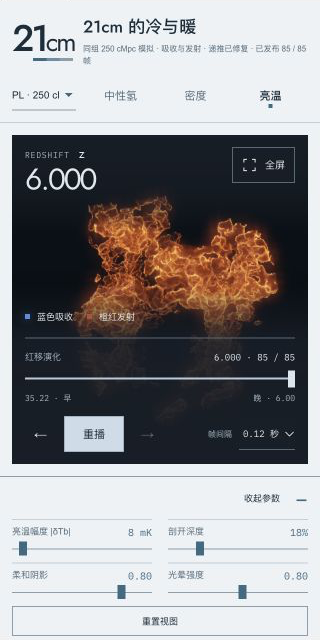
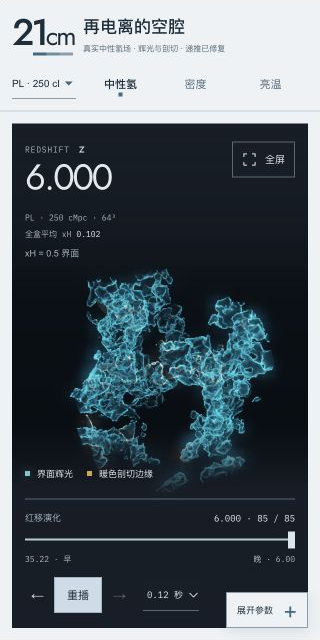
Replace the folded parameter dock with a floating corner button

diff --git a/viewer-lab/cavity.css b/viewer-lab/cavity.css
@@ -30,7 +30,7 @@
   --content-width: 1660px;
   font-family: var(--font-body); color: var(--ink); background: var(--background);
 }
-.cavity-page { --sample-dock: 39px; min-width: 320px; min-height: 100dvh; background: var(--background); -webkit-font-smoothing: antialiased; }
+.cavity-page { --sample-dock: 0px; min-width: 320px; min-height: 100dvh; background: var(--background); -webkit-font-smoothing: antialiased; }
 ::selection { color: var(--surface); background: var(--accent); }
 .cavity-page :is(button, a, input, select, canvas, summary):focus-visible { outline: 2px solid var(--accent); outline-offset: 4px; }
 .cavity-page button { border-radius: 0; transition: color 150ms ease, background 150ms ease, border-color 150ms ease; }
@@ -248,6 +248,29 @@
   .sample-gap p { font-size: 10px; line-height: 1.6; }
   .sample-gap > div { margin-top: 0; gap: 8px; }
   .sample-gap button { padding: 6px 9px; }
+}
+
+/* A folded dock reserves no space; only its corner button remains. */
+.sample-controls.is-collapsed {
+  inset: auto max(16px, env(safe-area-inset-right)) max(12px, env(safe-area-inset-bottom)) auto;
+  display: block; min-height: 0; max-height: none; padding: 0; border: 0; background: transparent; overflow: visible;
+}
+.sample-controls.is-collapsed .sample-toggle {
+  min-width: 82px; min-height: 36px; gap: 8px; padding: 5px 10px;
+  border: 1px solid var(--line-strong); background: var(--background); box-shadow: 0 3px 12px #111e2b1a;
+}
+.sample-controls.is-collapsed .sample-toggle:hover { background: var(--surface); border-color: var(--accent); }
+@media (min-width:601px) {
+  .controls-collapsed .sample-stage-bottom { padding-right: calc(var(--stage-pad) + 94px); }
+}
+@media (max-width:600px) {
+  .sample-controls.is-collapsed { right: max(12px, env(safe-area-inset-right)); }
+  .controls-collapsed .sample-timeline { grid-template-columns: minmax(104px, 1fr) 56px 84px; }
+  .controls-collapsed .redshift-control { grid-column: 1/-1; }
+  .controls-collapsed .timeline-transport { gap: 2px; }
+  .controls-collapsed .timeline-transport button { min-width: 24px; padding: 5px; }
+  .controls-collapsed .timeline-transport #sample-play { min-width: 48px; }
+  .controls-collapsed .playback-speed { grid-column: 2; display: block; font-size: 0; }
 }
 
 html.is-viewer-fullscreen { overflow: hidden; }

diff --git a/viewer-lab/cavity.js b/viewer-lab/cavity.js
@@ -25,17 +25,24 @@ const field=()=>FIELDS[fieldKey];
 const modelRepaired=()=>!!manifests?.[modelKey]?.thermalEvolutionRepair;
 const currentThreshold=(epoch,snapshot=frames[fieldKey]?.[frameIndex])=>epochThreshold(fieldKey,epoch,modelKey,modelRepaired()?snapshot:null);
 const number=value=>Number(value.toFixed(Math.abs(value)<1?3:2)).toString();
-for(const [selector,variable]of [['.sample-controls','--sample-dock'],['.sample-header','--sample-header']])new ResizeObserver(entries=>document.body.style.setProperty(variable,`${entries[0].target.getBoundingClientRect().height}px`)).observe(document.querySelector(selector));
+function updateDockHeight(){
+  const dock=$('sample-controls');
+  document.body.style.setProperty('--sample-dock',`${dock.classList.contains('is-collapsed')?0:dock.getBoundingClientRect().height}px`);
+}
+new ResizeObserver(updateDockHeight).observe($('sample-controls'));
+new ResizeObserver(entries=>document.body.style.setProperty('--sample-header',`${entries[0].target.getBoundingClientRect().height}px`)).observe(document.querySelector('.sample-header'));
 
 const controlsPreference='21cm:sample:controls-collapsed';
 function setControlsCollapsed(collapsed){
   $('sample-controls').classList.toggle('is-collapsed',collapsed);
+  document.body.classList.toggle('controls-collapsed',collapsed);
   $('sample-panel').hidden=collapsed;
   $('sample-parameters').hidden=collapsed;
   $('sample-toggle').setAttribute('aria-expanded',String(!collapsed));
   $('sample-toggle').setAttribute('aria-label',collapsed?'展开参数区':'收起参数区');
   $('sample-toggle-label').textContent=collapsed?'展开参数':'收起参数';
   $('sample-toggle-mark').textContent=collapsed?'+':'−';
+  updateDockHeight();
   try{localStorage.setItem(controlsPreference,String(collapsed));}catch{}
 }
 let controlsCollapsed=true;

diff --git a/viewer-lab/cavity.html b/viewer-lab/cavity.html
@@ -4,9 +4,9 @@
   <meta charset="utf-8"><meta name="viewport" content="width=device-width,initial-scale=1">
   <meta name="color-scheme" content="light"><title>21cm · 三维 Viewer</title>
   <link rel="preload" href="./assets/fonts/jost-latin-variable.woff2" as="font" type="font/woff2" crossorigin>
-  <link rel="stylesheet" href="./style.css"><link rel="stylesheet" href="./cavity.css?v=minimal-dock-20261018">
+  <link rel="stylesheet" href="./style.css"><link rel="stylesheet" href="./cavity.css?v=floating-toggle-20261018">
 </head>
-<body class="cavity-page">
+<body class="cavity-page controls-collapsed">
   <header class="sample-header">
     <a class="sample-brand" href="./">21<span>cm</span><i aria-hidden="true"></i></a>
     <div class="sample-heading"><h1 id="sample-title">再电离的空腔</h1><p id="sample-subtitle">真实中性氢场 · 辉光与剖切</p></div>
@@ -54,6 +54,6 @@
     </div>
     <button class="sample-toggle" id="sample-toggle" aria-expanded="false" aria-controls="sample-panel" aria-label="展开参数区"><span id="sample-toggle-label">展开参数</span><span id="sample-toggle-mark" aria-hidden="true">+</span></button>
   </footer>
-  <script type="module" src="./cavity.js?v=compact-controls-20261018"></script>
+  <script type="module" src="./cavity.js?v=floating-toggle-20261018"></script>
 </body>
 </html>

diff --git a/viewer-lab/README.md b/viewer-lab/README.md
@@ -22,7 +22,7 @@
 
 画面右上角“全屏”将三维画面与原有控制台一起放大。全屏内可拖动红移、上一帧/下一帧、播放/暂停、调整帧间隔，以及展开详细参数。点击“退出全屏”或按 Esc 返回；切换不重建播放器、不重置参数或相机。支持标准和 WebKit 全屏接口，受限的嵌入浏览器使用铺满窗口的布局。
 
-红移滑块、帧序号、播放/暂停、逐帧切换与帧间隔直接放在三维画面底部，全屏时保持相同位置。页面底部只保留显示参数、重置视图与折叠按钮，宽屏时并排显示；不显示标题、标语、缓存计数和进度。后台预载与缓存照常运行，预载失败时出现重试按钮。右侧“展开参数 / 收起参数”支持鼠标和键盘，收起不会打断播放。折叠偏好在本地保存，刷新后恢复；浏览器禁用偏好存储时仍可正常折叠。隐藏参数不进入键盘焦点顺序。画布按控制台实际高度调整，矮窗口中的详细参数可滚动；短画布自动精简顶部附加读数，保留红移与播放。渲染与数据约定见本文后续章节。
+红移滑块、帧序号、播放/暂停、逐帧切换与帧间隔直接放在三维画面底部，全屏时保持相同位置。页面底部只保留显示参数、重置视图与折叠按钮，宽屏时并排显示；不显示标题、标语、缓存计数和进度。后台预载与缓存照常运行，预载失败时出现重试按钮。右侧“展开参数 / 收起参数”支持鼠标和键盘；收起后移除整条底栏与布局占位，只在右下角保留一个悬浮展开按钮，播放与红移控制避开按钮，收起不会打断播放。折叠偏好在本地保存，刷新后恢复；浏览器禁用偏好存储时仍可正常折叠。隐藏参数不进入键盘焦点顺序。画布按控制台实际高度调整，矮窗口中的详细参数可滚动；短画布自动精简顶部附加读数，保留红移与播放。渲染与数据约定见本文后续章节。
 
 界面沿用个人网页 `personal-archive` 的浅色主题：背景 `#edf2f5`、面板 `#e2eaf0`、文字 `#182e3b`、次级文字 `#526d7d`、细线 `#c0d0db`、操作色 `#356b83`。本地 Jost / IBM Plex Mono 字体及 SIL 授权、来源保存在 `assets/fonts/`。三维材质和数据色表独立于界面主题。
 
